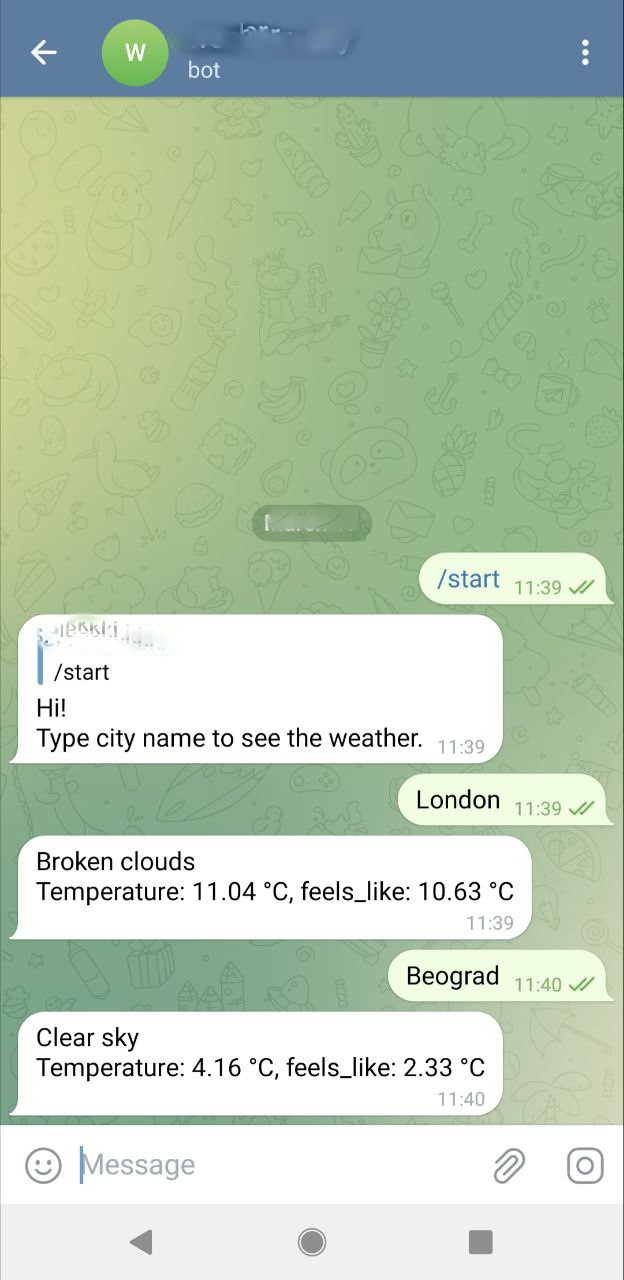
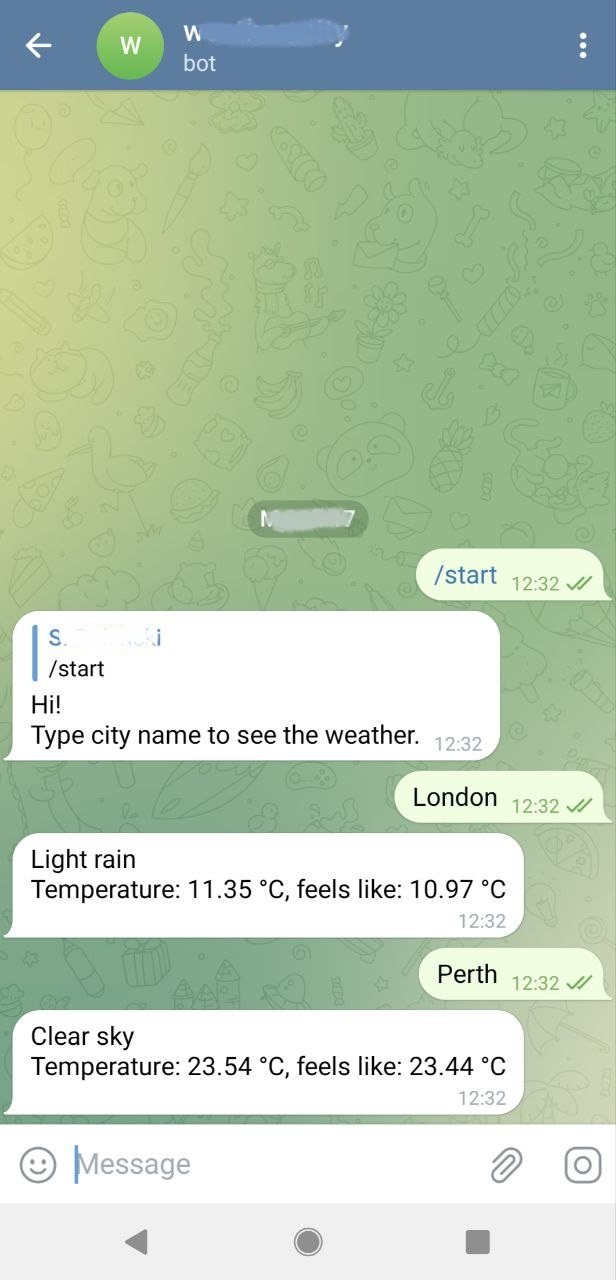
typo in feels like fixed, screenshot changed accordingly

diff --git a/bot.py b/bot.py
@@ -7,8 +7,8 @@ from weather import Weather
 logging.basicConfig(level=logging.INFO)
 
 
-BOT_API_TOKEN = 'XXXXXXXXXX' # a valid telegram bot token provided by BotFather
-WEATHER_API_KEY = 'YYYYYYYYYYYYY' # a valid open weather map API token
+BOT_API_TOKEN = 'XXXXXXXXXXXXXXXXXXXX' # a valid telegram bot token provided by BotFather
+WEATHER_API_KEY = 'YYYYYYYYYYYYYYYYYYYYY' # a valid open weather map API token
 
 
 bot = Bot(token=BOT_API_TOKEN)

diff --git a/weather.py b/weather.py
@@ -35,4 +35,4 @@ class Weather:
         """
         tm = str(weather_data['main']['temp'])
         fl = str(weather_data['main']['feels_like'])
-        return f"Temperature: {tm} °C, feels_like: {fl} °C"
+        return f"Temperature: {tm} °C, feels like: {fl} °C"
